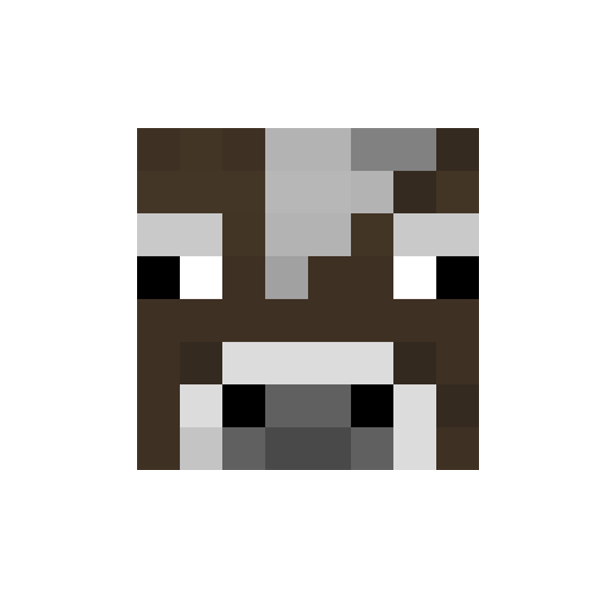
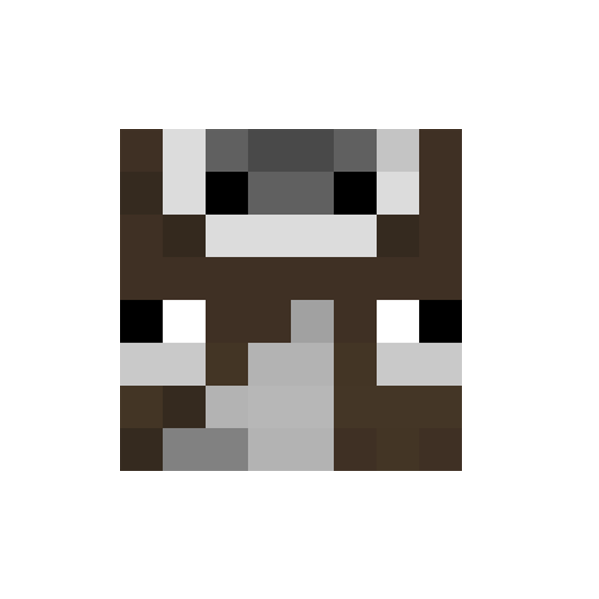
visualazation od multiple cows and its orientations

Changed region(s): [[0.1803, 0.2104, 0.8114, 0.8114]]

diff --git a/darwinworld/src/main/java/agh/proj/gui/SimulationRunner.java b/darwinworld/src/main/java/agh/proj/gui/SimulationRunner.java
@@ -14,13 +14,18 @@ import javafx.fxml.FXML;
 import javafx.geometry.HPos;
 import javafx.geometry.Insets;
 import javafx.scene.control.*;
+import javafx.scene.effect.Blend;
+import javafx.scene.effect.BlendMode;
 import javafx.scene.effect.ColorAdjust;
+import javafx.scene.effect.ColorInput;
 import javafx.scene.image.Image;
 import javafx.scene.image.ImageView;
 import javafx.scene.layout.*;
 import javafx.scene.paint.Color;
+import javafx.scene.shape.Rectangle;
 import javafx.scene.text.Text;
 import javafx.scene.text.TextFlow;
+import javafx.scene.transform.Rotate;
 
 import java.util.ArrayList;
 import java.util.List;
@@ -142,6 +147,7 @@ public class SimulationRunner implements MapChangeListener {
         toTrack = Integer.parseInt(number);
         initializeAnimalList();
         updateTracking();
+        Platform.runLater(this::drawMap);
     }
 
     private void updateTracking() {
@@ -247,18 +253,54 @@ public class SimulationRunner implements MapChangeListener {
 
                 tile.getChildren().add(backgroundImageView);
 
-                Border border = new Border(new BorderStroke(Color.BLACK,
-                        BorderStrokeStyle.SOLID, CornerRadii.EMPTY, BorderWidths.DEFAULT));
-                tile.setBorder(border);
-
-
                 if (worldElement != null) {
                     String elementUrl = worldElement.getImage();
+                    int toRotate = worldElement.getRotation();
+                    int numberOfAnimals = worldMap.numberOfAnimalsOnPosition(new Vector2d(i - 1, j - 1));
+                    if (numberOfAnimals > 0) {
+                        for (Animal animal : worldMap.getAnimalsAtPosition(new Vector2d(i - 1, j - 1))) {
+                            if (animal.isTracked(toTrack - 1)) {
+                                elementUrl = "trackedcow.png";
+                            }
+                        }
+
+                    }
+
+//                    boolean aLot = false;
+                    if (numberOfAnimals > 1) {
+                        toRotate = 0;
+                        elementUrl = elementUrl.substring(0, elementUrl.length() - 4);
+                        if (numberOfAnimals > 4) {
+//                            aLot = true;
+                            elementUrl = elementUrl + 5 + ".png";
+                        }
+                        else {
+                            elementUrl = elementUrl + numberOfAnimals + ".png";
+                        }
+                    }
+
                     ImageView overlayImageView = new ImageView(new Image(elementUrl));
                     overlayImageView.setFitWidth(cellDim - 1);
                     overlayImageView.setFitHeight(cellDim - 1);
+                    Rotate rotate = new Rotate(toRotate, (double) (cellDim - 1) / 2, (double) (cellDim - 1) / 2);
+                    overlayImageView.getTransforms().add(rotate);
+
+//                    if (aLot) {
+//                        overlayImageView.setFitWidth(cellDim / 1.5);
+//                        overlayImageView.setFitHeight(cellDim / 1.5);
+//                        tile.getChildren().add(overlayImageView);
+//                        tile.getChildren().add(new Text(String.valueOf(numberOfAnimals)));
+//                    }
+//                    else {
+//                        tile.getChildren().add(overlayImageView);
+//                    }
+
                     tile.getChildren().add(overlayImageView);
+
                 }
+                Border border = new Border(new BorderStroke(Color.BLACK,
+                        BorderStrokeStyle.SOLID, CornerRadii.EMPTY, BorderWidths.DEFAULT));
+                tile.setBorder(border);
                 mapGrid.add(tile, i, yDim - j);
             }
         }

diff --git a/darwinworld/src/main/java/agh/proj/model/Globe.java b/darwinworld/src/main/java/agh/proj/model/Globe.java
@@ -21,6 +21,9 @@ public class Globe implements WorldMap, BoundsValidator {
     private final Map<Vector2d, Grass> grasses = new HashMap<>();
     private final Parameters parameters;
     private int day = 0;
+
+
+
     private Map<Vector2d, List<Animal>> animals = new HashMap<>();
     private Map<Genotype, Integer> mostPopular = new HashMap<>();
     private Set<Vector2d> emptySpacesJungle = new HashSet<>();
@@ -36,6 +39,10 @@ public class Globe implements WorldMap, BoundsValidator {
         initialGrassGenerator();
         initialAnimalMap();
         initialAnimalsGenerator();
+    }
+
+    public List<Animal> getAnimalsAtPosition(Vector2d position) {
+        return animals.get(position);
     }
 
     public int getAnimalCount() {
@@ -167,6 +174,11 @@ public class Globe implements WorldMap, BoundsValidator {
         int swampWidth = (int) (upperRight.getX() / sqrt(4));
         Biome jungle = new Biome(new Vector2d(startWidth, startHeight), new Vector2d(startWidth + swampWidth, startHeight + swampHeight));
         biomes.put("Swamp", jungle);
+    }
+
+    public int numberOfAnimalsOnPosition(Vector2d position) {
+        if (animals.get(position).isEmpty()) return 0;
+        return animals.get(position).size();
     }
 
     public String biomeColor(int x, int y) {

diff --git a/darwinworld/src/main/java/agh/proj/model/interfaces/WorldMap.java b/darwinworld/src/main/java/agh/proj/model/interfaces/WorldMap.java
@@ -5,6 +5,7 @@ import agh.proj.model.Genotype;
 import agh.proj.model.Vector2d;
 
 import java.util.ArrayList;
+import java.util.List;
 
 public interface WorldMap extends MoveValidator {
     Vector2d moveValidator(Animal animal, Vector2d newPosition);
@@ -40,4 +41,8 @@ public interface WorldMap extends MoveValidator {
     int avgAgeForDead();
 
     int getGrassCount();
+
+    int numberOfAnimalsOnPosition(Vector2d position);
+
+    List<Animal> getAnimalsAtPosition(Vector2d position);
 }

diff --git a/darwinworld/src/main/java/agh/proj/model/Animal.java b/darwinworld/src/main/java/agh/proj/model/Animal.java
@@ -134,4 +134,12 @@ public class Animal implements WorldElement {
     public boolean canBreed(int breedNeededEnergy) {
         return energy >= breedNeededEnergy;
     }
+
+    public boolean isTracked(int n) {
+        return n == hisNumber;
+    }
+
+    public int getRotation() {
+        return orientation.toNumber() * 45;
+    }
 }

diff --git a/darwinworld/src/main/java/agh/proj/model/Grass.java b/darwinworld/src/main/java/agh/proj/model/Grass.java
@@ -30,4 +30,12 @@ public class Grass implements WorldElement {
         if (energy < 0) return "purplegrass.png";
         return "grass.png";
     }
+
+    public boolean isTracked(int n) {
+        return false;
+    }
+
+    public int getRotation() {
+        return 0;
+    }
 }

diff --git a/darwinworld/src/main/java/agh/proj/model/interfaces/WorldElement.java b/darwinworld/src/main/java/agh/proj/model/interfaces/WorldElement.java
@@ -6,4 +6,8 @@ public interface WorldElement {
     Vector2d getPosition();
 
     String getImage();
+
+    boolean isTracked(int n);
+
+    int getRotation();
 }
